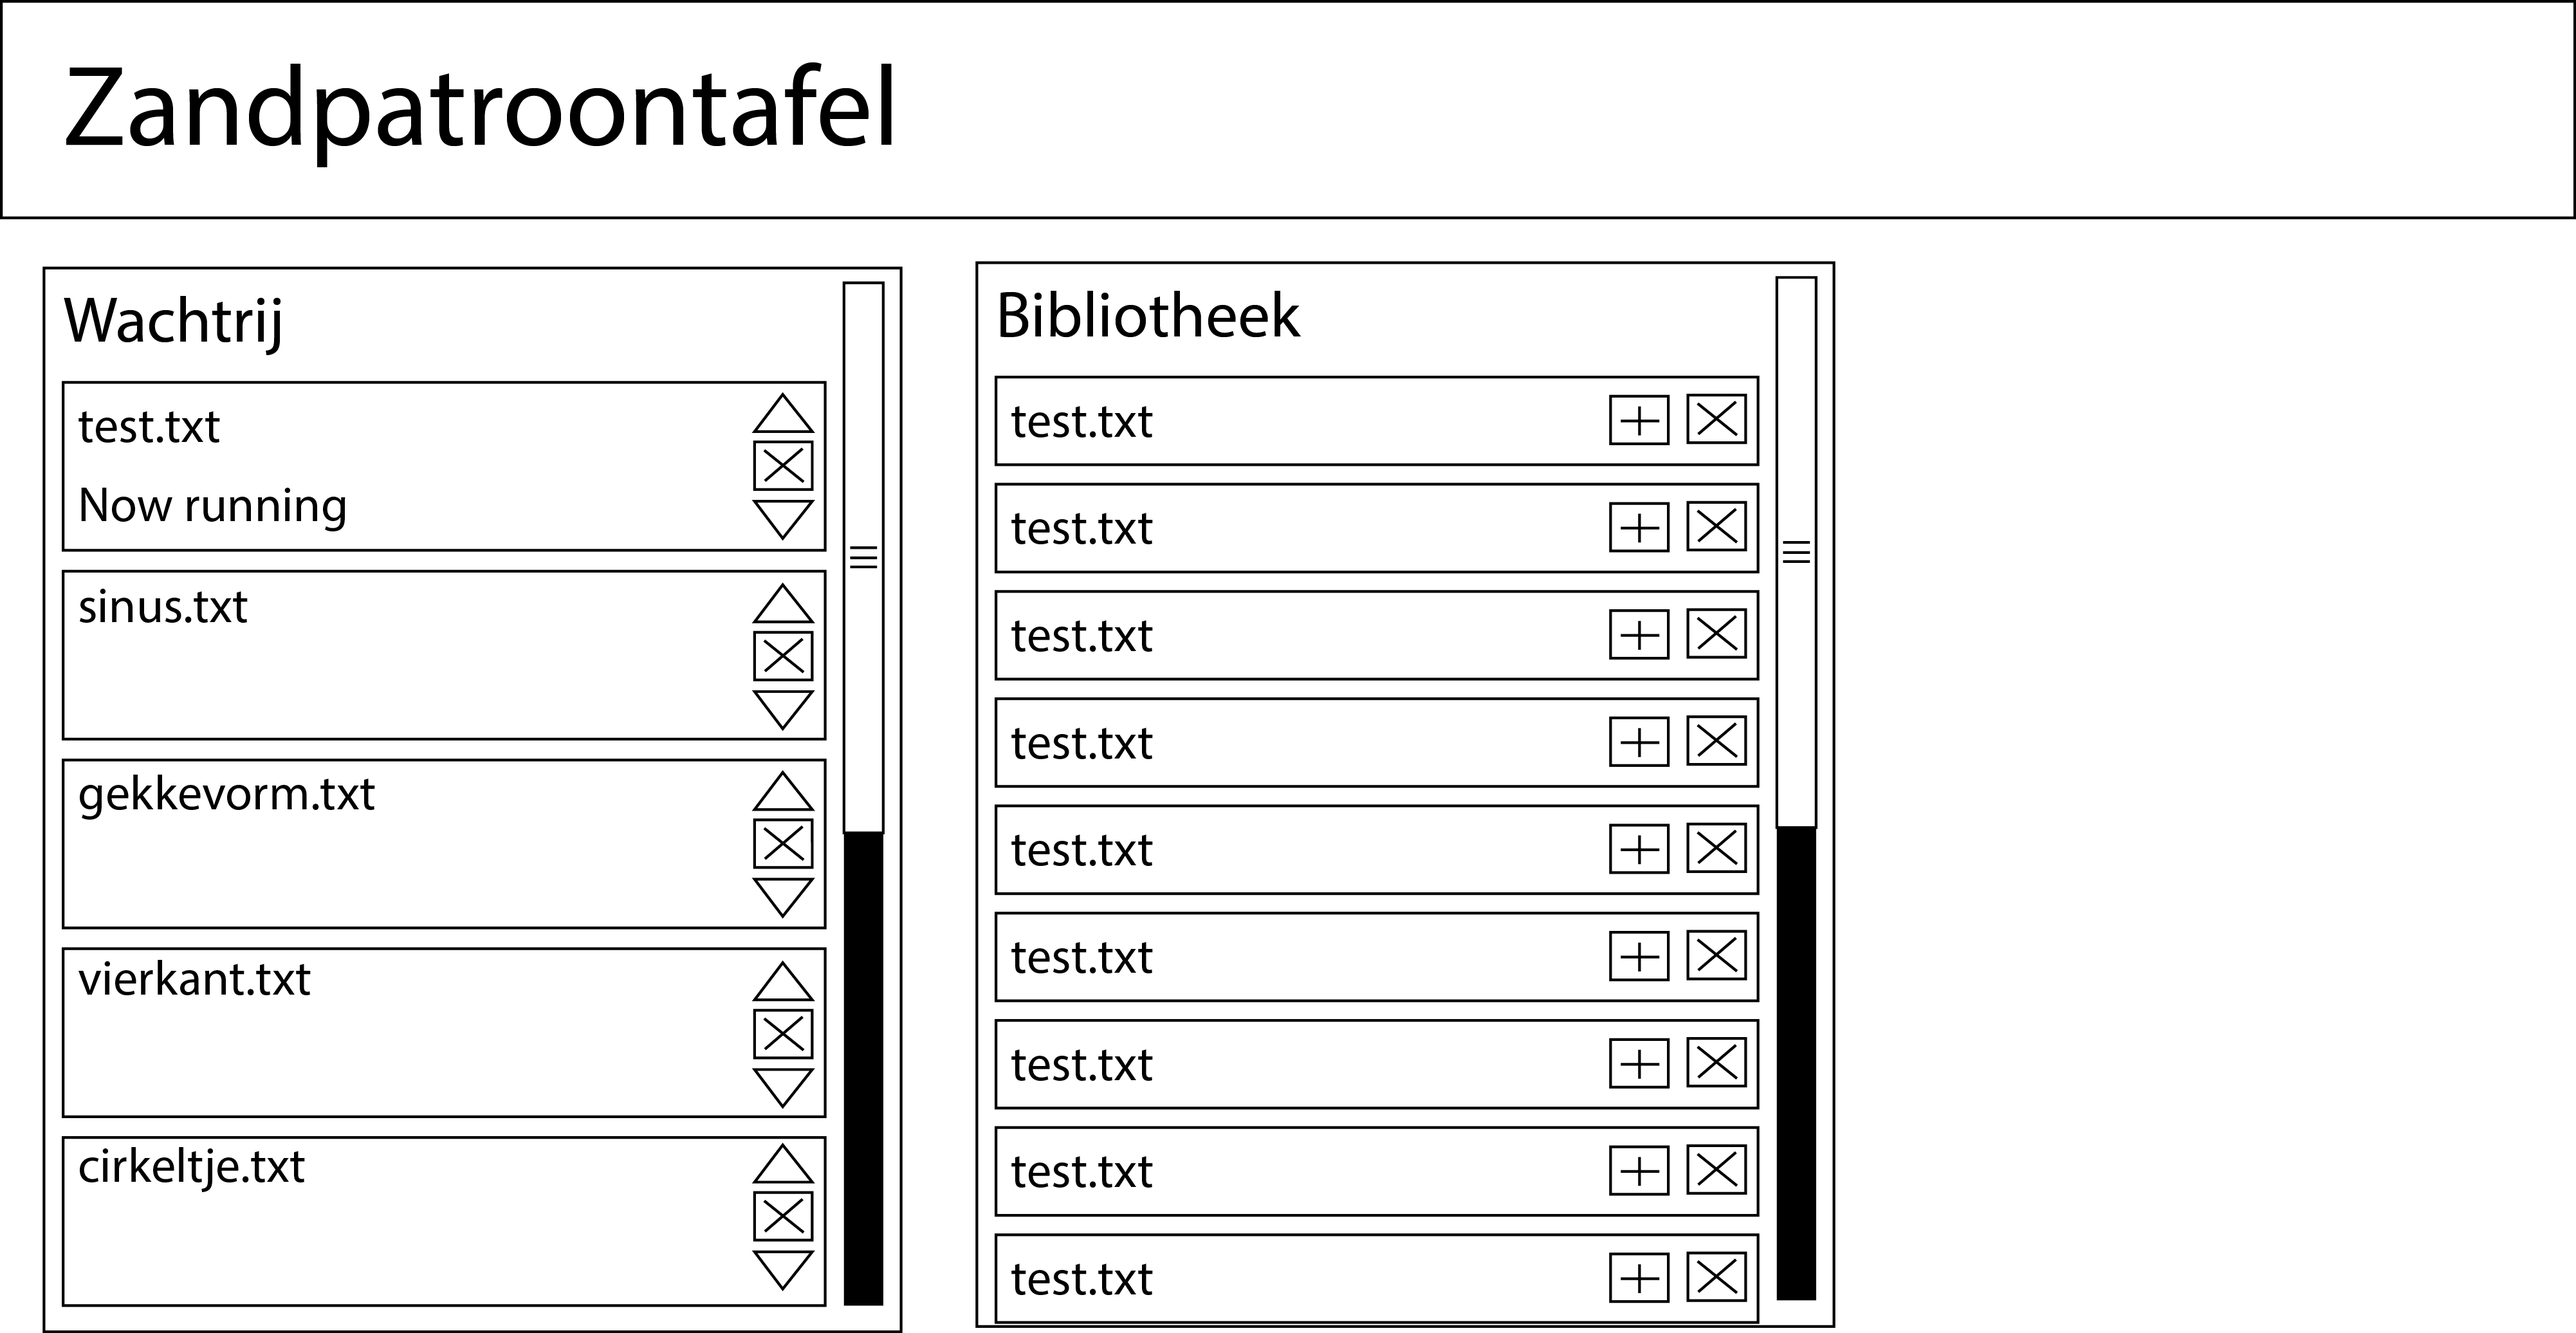
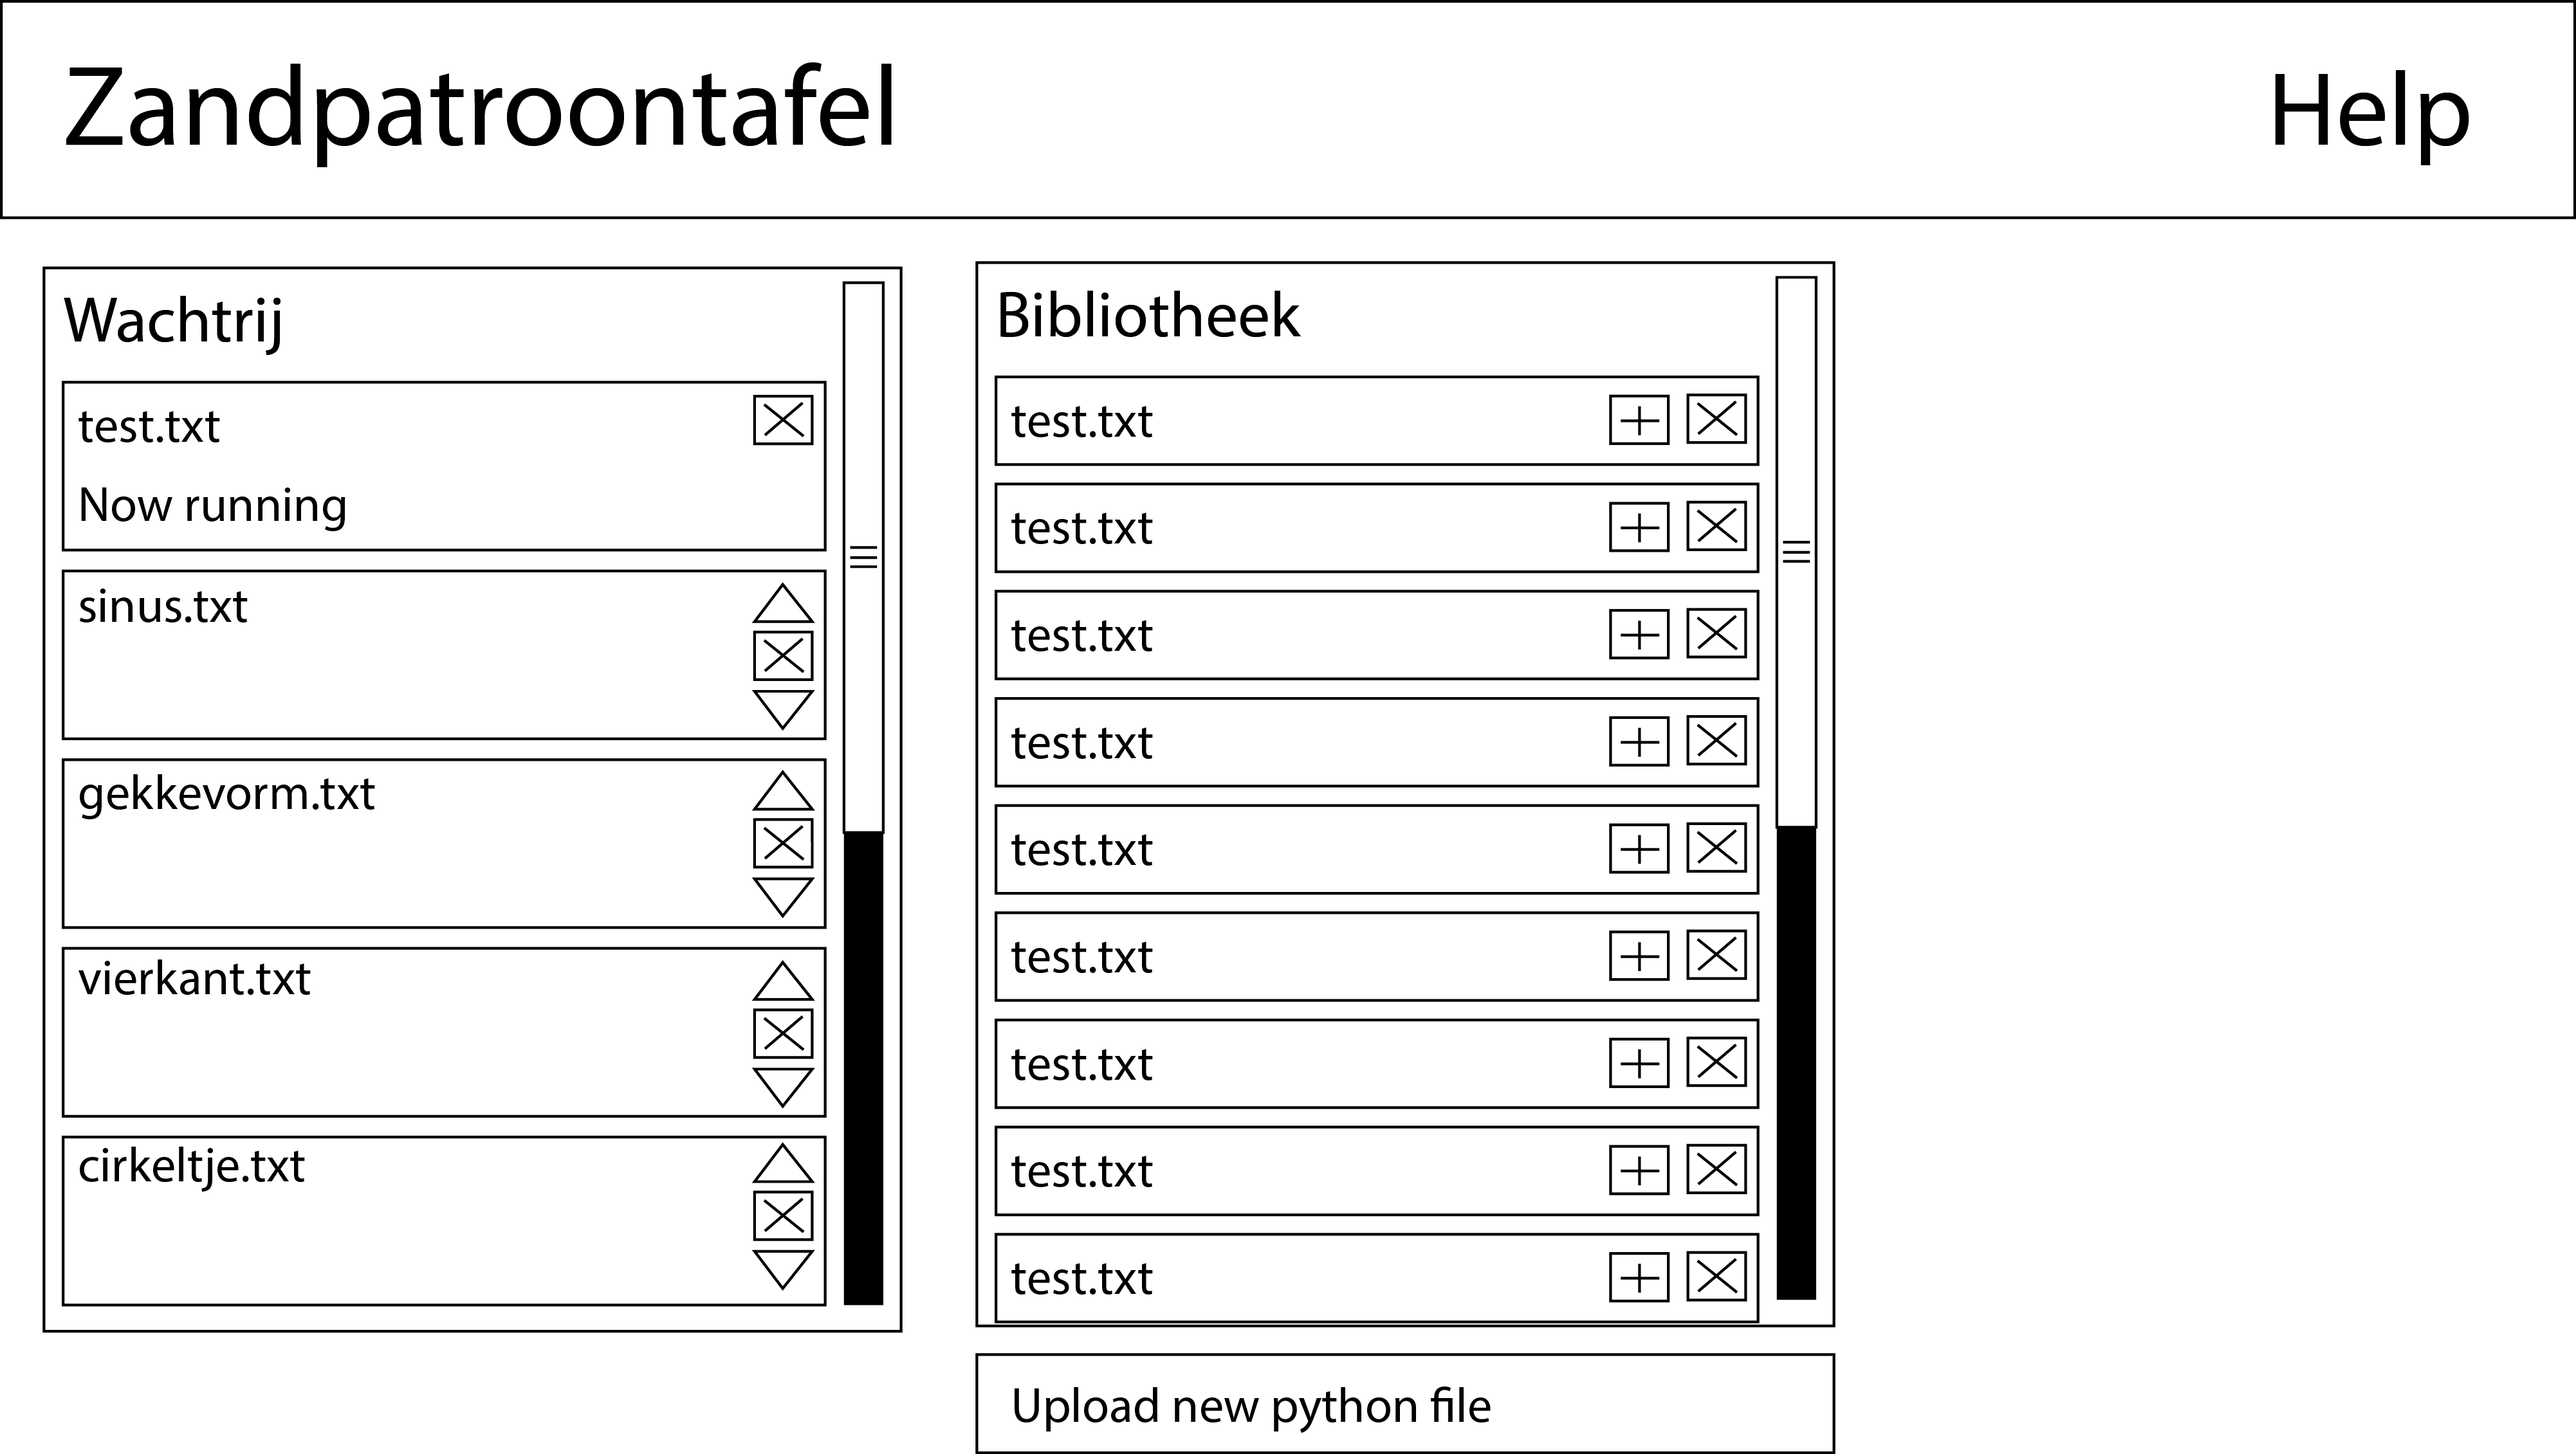
Alles omgegooid
Was nodig

diff --git a/read_code.py b/read_code.py
@@ -1,0 +1,17 @@
+def create_gcode(path):
+    gcode = 'G90 G16 G17\n'
+    for r, phi in path:
+        gcode += 'G01 X' + '{0:.20f}'.format(r) + ' Y' + '{0:.20f}'.format(phi) + '\n'#'G01 X{0:f} Y{0:f}'.format(r, phi) + '\n'
+    return gcode
+
+def import_path(file):
+    namespace = {}
+    with open(file) as f:
+        exec(f.read(), namespace)
+    return namespace['path']
+
+def main():
+    path = import_path('code.py')
+    print(create_gcode(path))
+
+main()

diff --git a/code.py b/code.py
@@ -1,0 +1,4 @@
+from math import sin
+path = []
+for phi in range(360):
+	path.append((sin(phi) + 1, phi))
